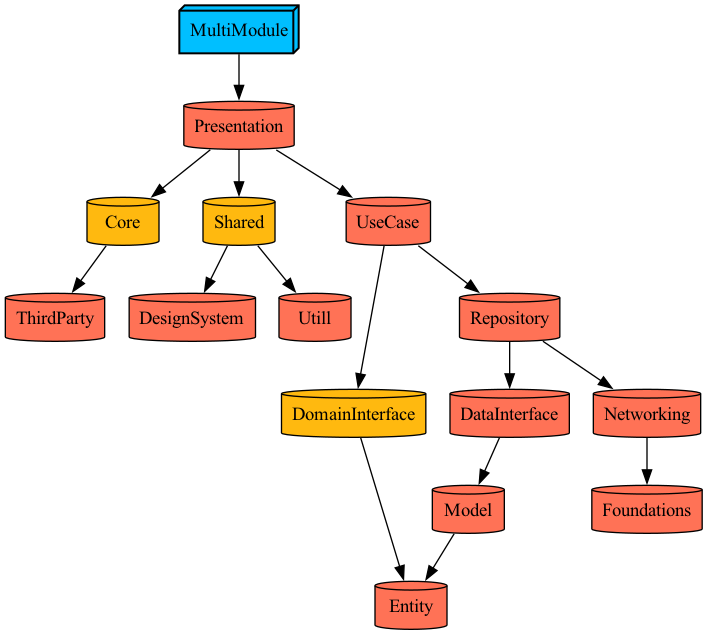
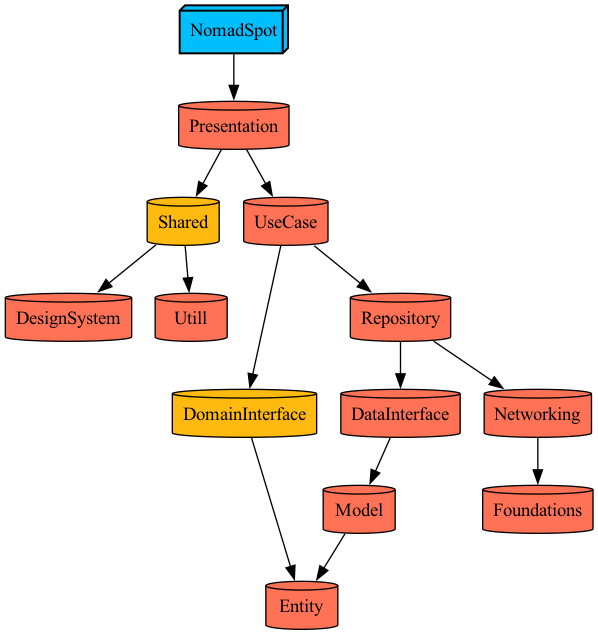
refactor: 단방향  interface 로  변경

Changed region(s): [[0.0, 0.0898, 0.9933, 1.0], [0.2408, 0.0, 0.4816, 0.0898], [0.4515, 0.8079, 0.4816, 0.8677]]

diff --git a/Tuist/Package.swift b/Tuist/Package.swift
@@ -14,6 +14,6 @@ let package = Package(
   dependencies: [
     .package(url: "https://github.com/pointfreeco/swift-composable-architecture", exact: "1.18.0"),
     .package(url: "https://github.com/johnpatrickmorgan/TCACoordinators.git", exact: "0.11.1"),
-    .package(url: "https://github.com/Roy-wonji/WeaveDI.git", from: "3.3.1")
+    .package(url: "https://github.com/Roy-wonji/WeaveDI.git", from: "3.4.0")
   ]
 )

diff --git a/Projects/Data/Repository/Project.swift b/Projects/Data/Repository/Project.swift
@@ -11,7 +11,7 @@ let project = Project.makeAppModule(
   settings:  .settings(),
   dependencies: [
     .Network(implements: .Networking),
-    .Domain(implements: .DataInterface)
+    .Domain(implements: .DomainInterface)
   ],
   sources: ["Sources/**"]
 )
